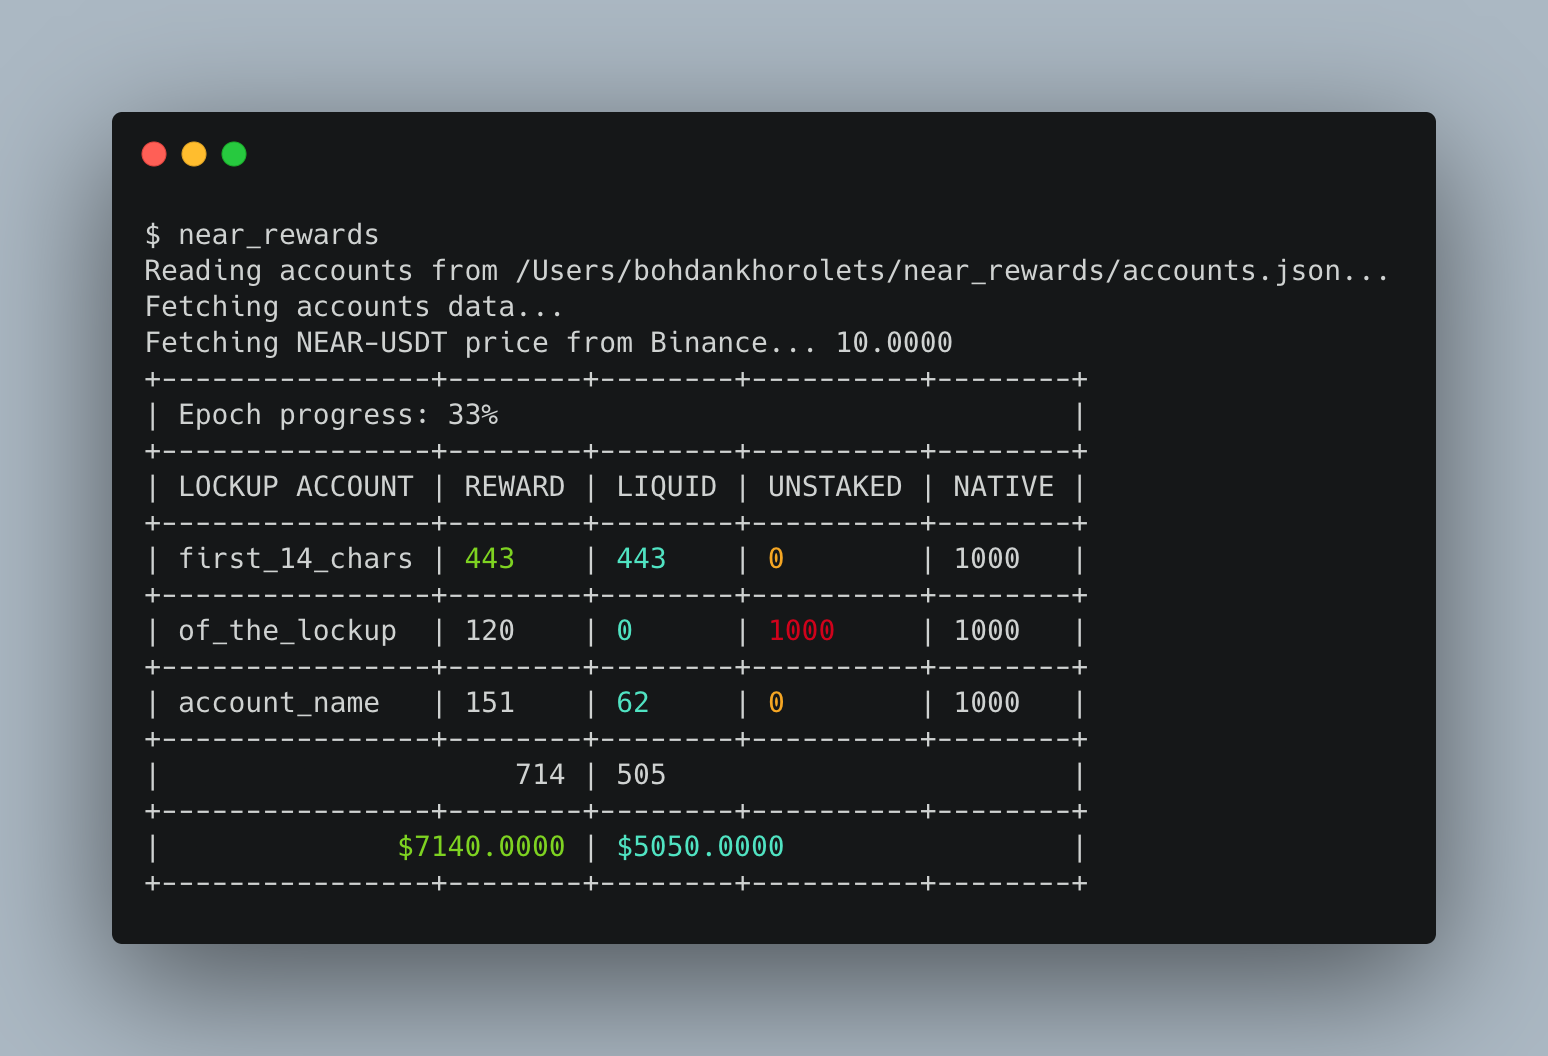
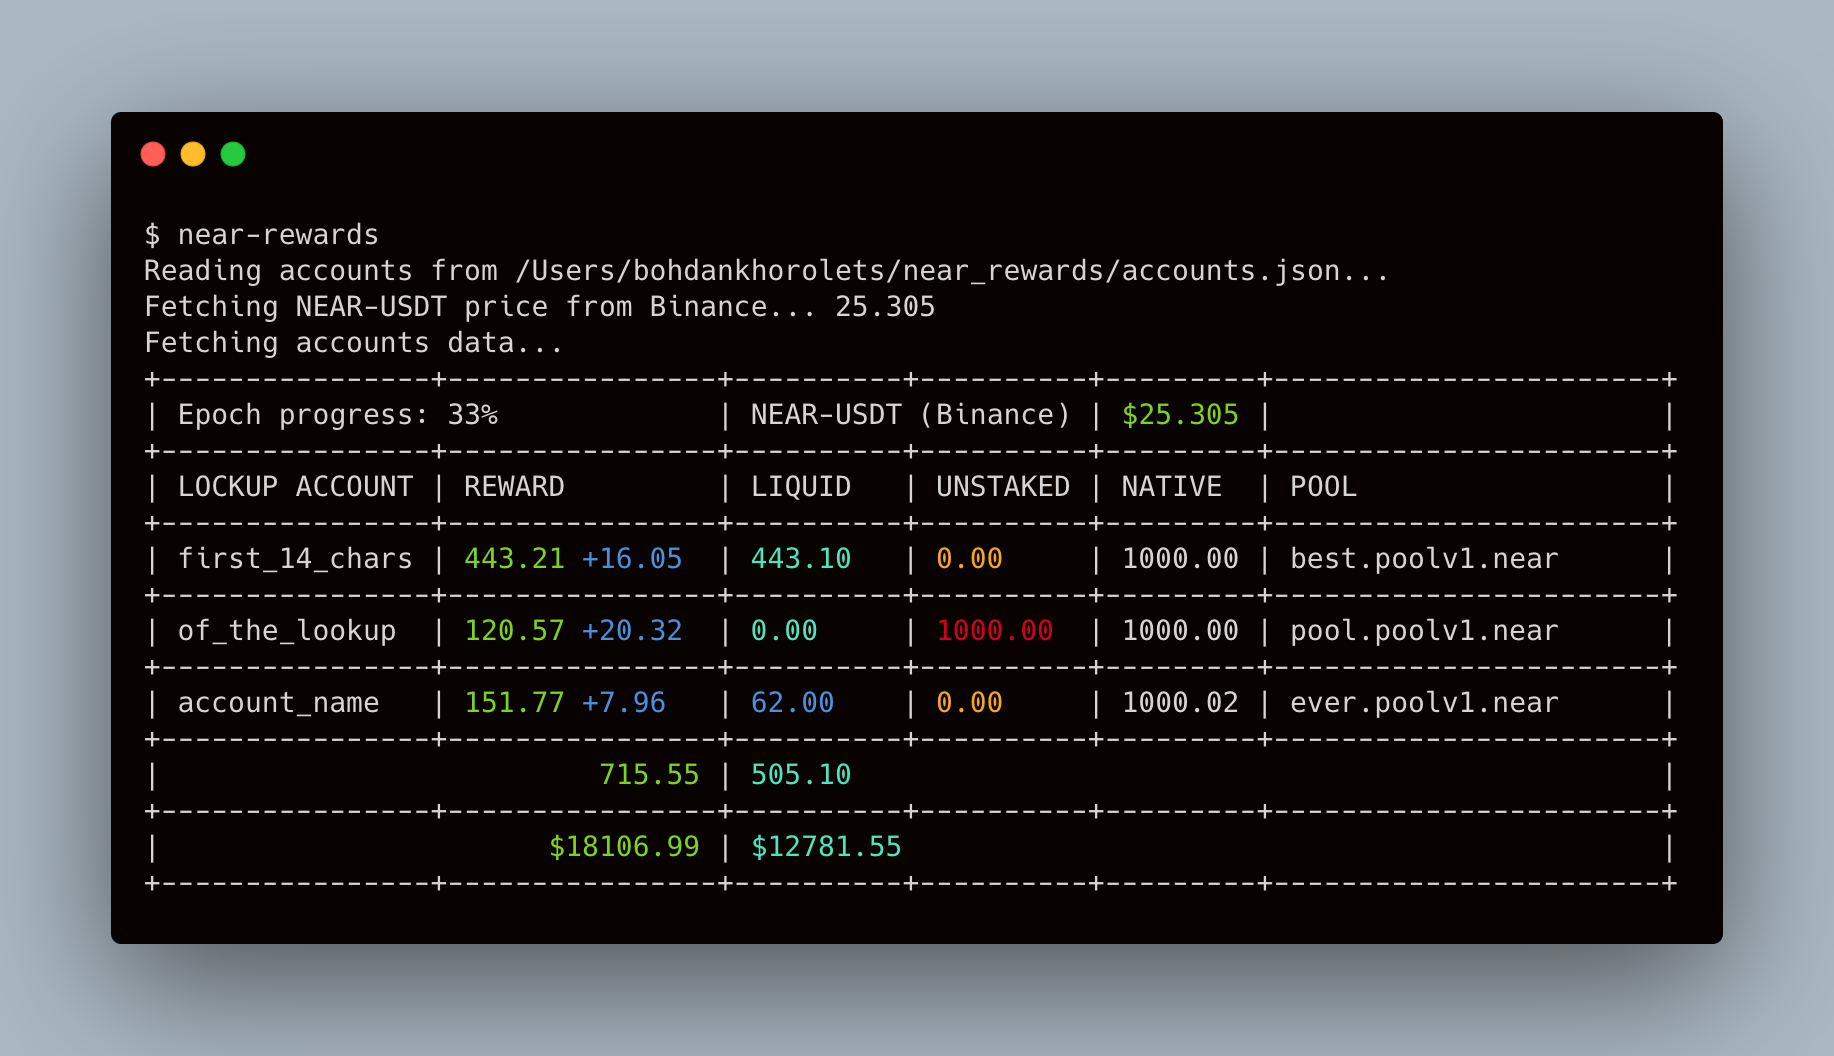
Update screenshot, README for 0.5.0 release

diff --git a/README.md b/README.md
@@ -1,6 +1,6 @@
 # near_rewards
 
-Small console application to check the staking rewards for lockup accounts on NEAR protocol.
+Small console application to check the staking rewards for ~~lockup~~ accounts on [NEAR protocol](https://near.org)
 
 ## Example result:
 
@@ -31,12 +31,25 @@ source $HOME/.cargo/env
 ```json
 [
   {
-    "account_id": "account.lockup.near",
+    "account_id": "account.near",
     "pool_account_id": "pool.poolv1.near"
   }
 ]
 ```
 
-_**Note:** This tool only works for lockup accounts._
+OR
+
+```json
+[
+  {
+    "account_id": "account.lockup.near",
+    "key": "ed25519:FQxoGzhKW129Vq8Uk8WqeSV1e8z3oJFMC1UbN6z6yBHT"
+  }
+]
+```
+
+~~_**Note:** This tool only works for lockup accounts._~~
+
+The tool works for any account in NEAR
 
 3. Run `cargo run` in your terminal.
